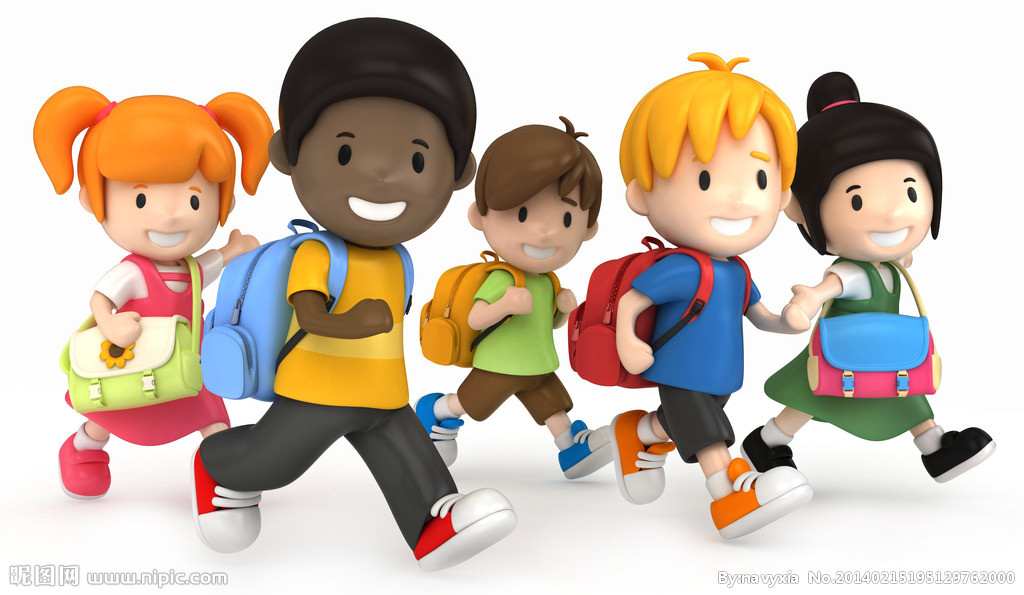
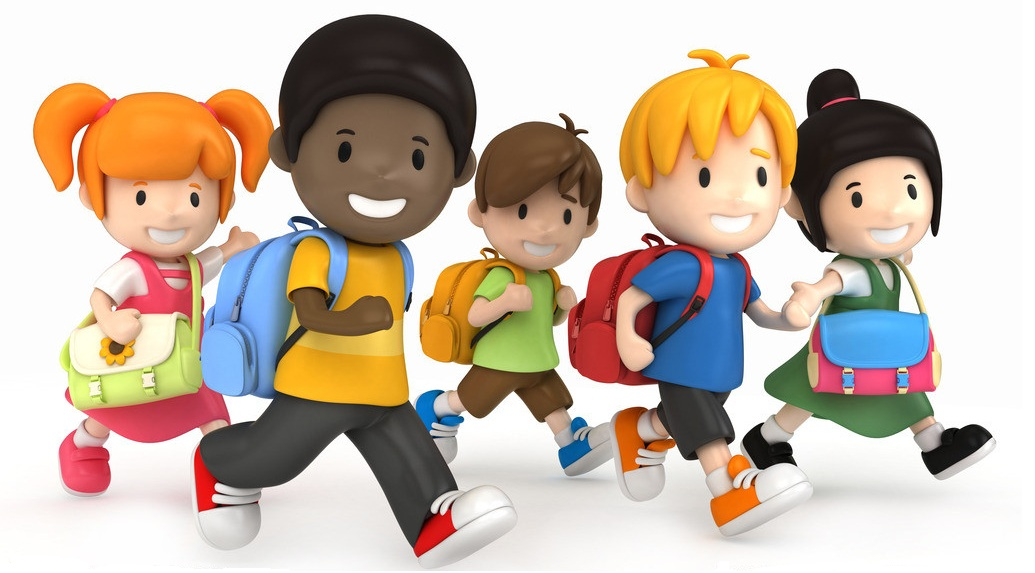
学生模块首页，及通用组件header+footer

diff --git a/Calc/Application/Home/View/Student/index.html b/Calc/Application/Home/View/Student/index.html
@@ -4,10 +4,13 @@
         background: #23ccfe;
     }
     .get {
-        background: #1ABC9C;
+        background-image: url(__PUBLIC__/assets/images/stu/2.jpg);
         color: #fff;
         text-align: center;
-        padding: 70px 0;
+        width: 1035px;
+        margin-left: auto;
+        margin-right: auto;
+        height: 573px;
     }
 
     .get-title {
@@ -44,56 +47,81 @@
     }
 </style>
 <div class="get">
-    <div class="am-g">
-        <div class="am-u-sm-12">
-            <h1 class="get-title">四则运算教学网站</h1>
-            <p>
-                更人性化的网站设计，更高的教学质量，欢迎您的使用
-            </p>
-        </div>
-    </div>
+    <!--<div class="am-g">-->
+        <!--<div class="am-u-sm-12">-->
+            <!--<h1 class="get-title">四则运算教学网站</h1>-->
+            <!--<p>-->
+                <!--更人性化的网站设计，更高的教学质量，欢迎您的使用-->
+            <!--</p>-->
+        <!--</div>-->
+    <!--</div>-->
 </div>
 <br>
-<div class="detail">
-    <div class="am-g am-container">
-        <div class="am-u-sm-12">
-            <div class="am-g">
-                <div class="am-u-sm-3 am-u-md-6 am-u-sm-12 detail-mb">
-                    <h3 class="detail-h3">
-                        <i class="am-icon-user am-icon-sm"></i>  学生成绩监督
-                    </h3>
-                    <p class="detail-p">
-                        在线查看学生的基本信息以及历次考试成绩，便于分析学生对知识的掌握情况，从而因材施教
-                    </p>
-                </div>
-                <div class="am-u-sm-3 am-u-md-6 am-u-sm-12 detail-mb">
-                    <h3 class="detail-h3">
-                        <i class="am-icon-print am-icon-sm"></i>  试题信息管理
-                    </h3>
-                    <p class="detail-p">
-                        教学网站可以生成和存储大量的试题，教师可以方便的管理试题资料，为不同的学生使用不同的练习题
-                    </p>
-                </div>
-                <div class="am-u-sm-3 am-u-md-6 am-u-sm-12 detail-mb">
-                    <h3 class="detail-h3">
-                        <i class="am-icon-comments am-icon-sm"></i>  师生交流互动
-                    </h3>
-                    <p class="detail-p">
-                        系统设置了私信功能，老师和学生之间可以及时交流，良好的互动可以显著提高教学质量
-                    </p>
-                </div>
-                <div class="am-u-sm-3 am-u-md-6 am-u-sm-12 detail-mb">
-                    <h3 class="detail-h3">
-                        <i class="am-icon-tasks am-icon-sm"></i>  在线安排考试
-                    </h3>
-                    <p class="detail-p">
-                        教学网站提供了安排在线考试的功能，老师可以要求学生在指定的时间段完成试题，并自动计算和分析考试成绩
-                    </p>
-                </div>
+<div class="am-g am-container">
+    <div class="am-u-sm-6">
+        <div class="am-thumbnail">
+            <div class="am-thumbnail-caption" style="float: left;width: 40%">
+                <h3>高效学习</h3>
+                <p class="detail-p">●海量试题在线做</p>
+                <p class="detail-p">●总结历史更进步</p>
+                <p class="detail-p">●随时随地不收费</p>
+            </div>
+            <img src="__PUBLIC__/assets/images/stu/speakout.jpg" alt="" style="float: left;width: 60%"/>
+        </div>
+    </div>
+
+    <div class="am-u-sm-6">
+        <div class="am-thumbnail">
+            <img src="__PUBLIC__/assets/images/stu/speakoutright.jpg" alt="" style="float: left;width: 60%"/>
+            <div class="am-thumbnail-caption" style="float: left;width: 40%">
+                <h3>轻松进步</h3>
+                <p class="detail-p">●卡通人物伴你行</p>
+                <p class="detail-p">●爸爸妈妈在家教</p>
+                <p class="detail-p">●教师辅导不会停</p>
             </div>
         </div>
     </div>
 </div>
+<!--<div class="detail">-->
+    <!--<div class="am-g am-container">-->
+        <!--<div class="am-u-sm-12">-->
+            <!--<div class="am-g">-->
+                <!--<div class="am-u-sm-3 am-u-md-6 am-u-sm-12 detail-mb">-->
+                    <!--<h3 class="detail-h3">-->
+                        <!--<i class="am-icon-user am-icon-sm"></i>  学生成绩监督-->
+                    <!--</h3>-->
+                    <!--<p class="detail-p">-->
+                        <!--在线查看学生的基本信息以及历次考试成绩，便于分析学生对知识的掌握情况，从而因材施教-->
+                    <!--</p>-->
+                <!--</div>-->
+                <!--<div class="am-u-sm-3 am-u-md-6 am-u-sm-12 detail-mb">-->
+                    <!--<h3 class="detail-h3">-->
+                        <!--<i class="am-icon-print am-icon-sm"></i>  试题信息管理-->
+                    <!--</h3>-->
+                    <!--<p class="detail-p">-->
+                        <!--教学网站可以生成和存储大量的试题，教师可以方便的管理试题资料，为不同的学生使用不同的练习题-->
+                    <!--</p>-->
+                <!--</div>-->
+                <!--<div class="am-u-sm-3 am-u-md-6 am-u-sm-12 detail-mb">-->
+                    <!--<h3 class="detail-h3">-->
+                        <!--<i class="am-icon-comments am-icon-sm"></i>  师生交流互动-->
+                    <!--</h3>-->
+                    <!--<p class="detail-p">-->
+                        <!--系统设置了私信功能，老师和学生之间可以及时交流，良好的互动可以显著提高教学质量-->
+                    <!--</p>-->
+                <!--</div>-->
+                <!--<div class="am-u-sm-3 am-u-md-6 am-u-sm-12 detail-mb">-->
+                    <!--<h3 class="detail-h3">-->
+                        <!--<i class="am-icon-tasks am-icon-sm"></i>  在线安排考试-->
+                    <!--</h3>-->
+                    <!--<p class="detail-p">-->
+                        <!--教学网站提供了安排在线考试的功能，老师可以要求学生在指定的时间段完成试题，并自动计算和分析考试成绩-->
+                    <!--</p>-->
+                <!--</div>-->
+            <!--</div>-->
+        <!--</div>-->
+    <!--</div>-->
+<!--</div>-->
 
 <script type="text/javascript">
     var isTimeStop = false; // 终止前一个count

diff --git a/Calc/Application/Home/View/Index/footer.html b/Calc/Application/Home/View/Index/footer.html
@@ -1,3 +1,7 @@
 
+<footer class="am-container blog-footer" style="text-align: center;background-color: #00BFFF;color: #FFFFFF">
+    <div class="blog-text-center">人性化学习网站，只为每天更进一步</div>
+    <div class="blog-text-center">© 2016 copyright@邓琨、白文俊、张星星、韩婧</div>
+</footer>
 </body>
 </html>
